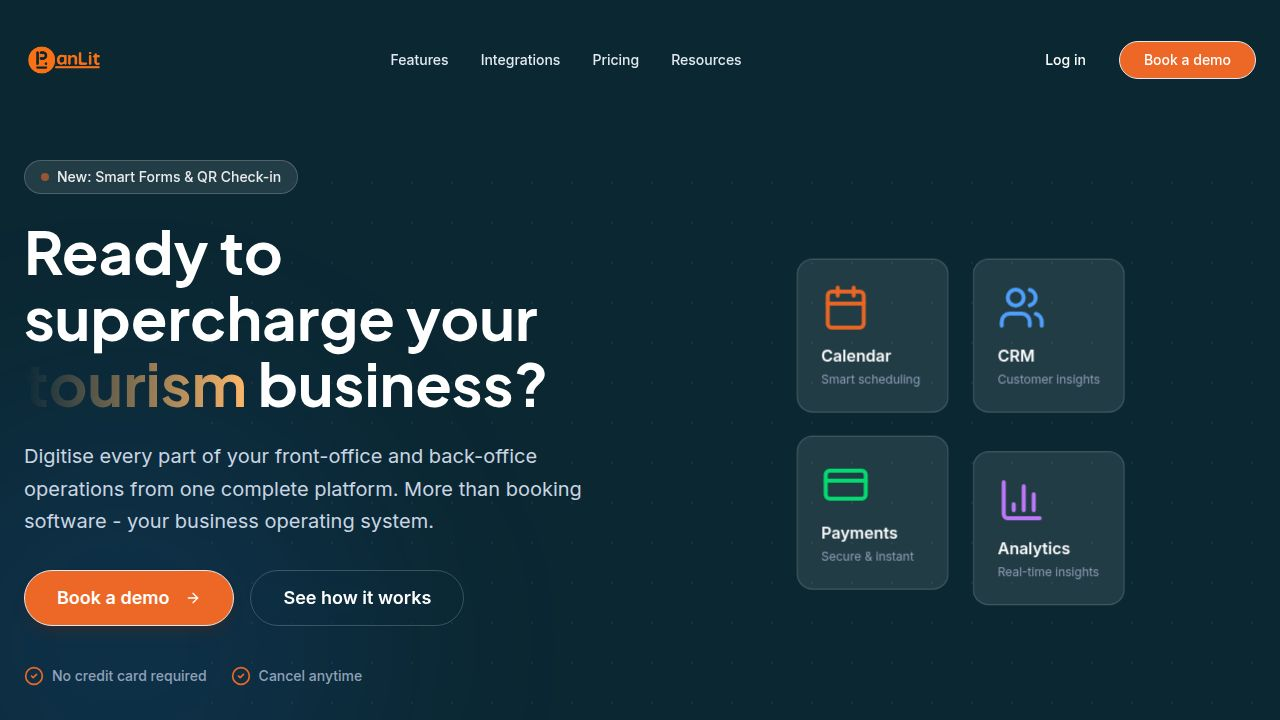
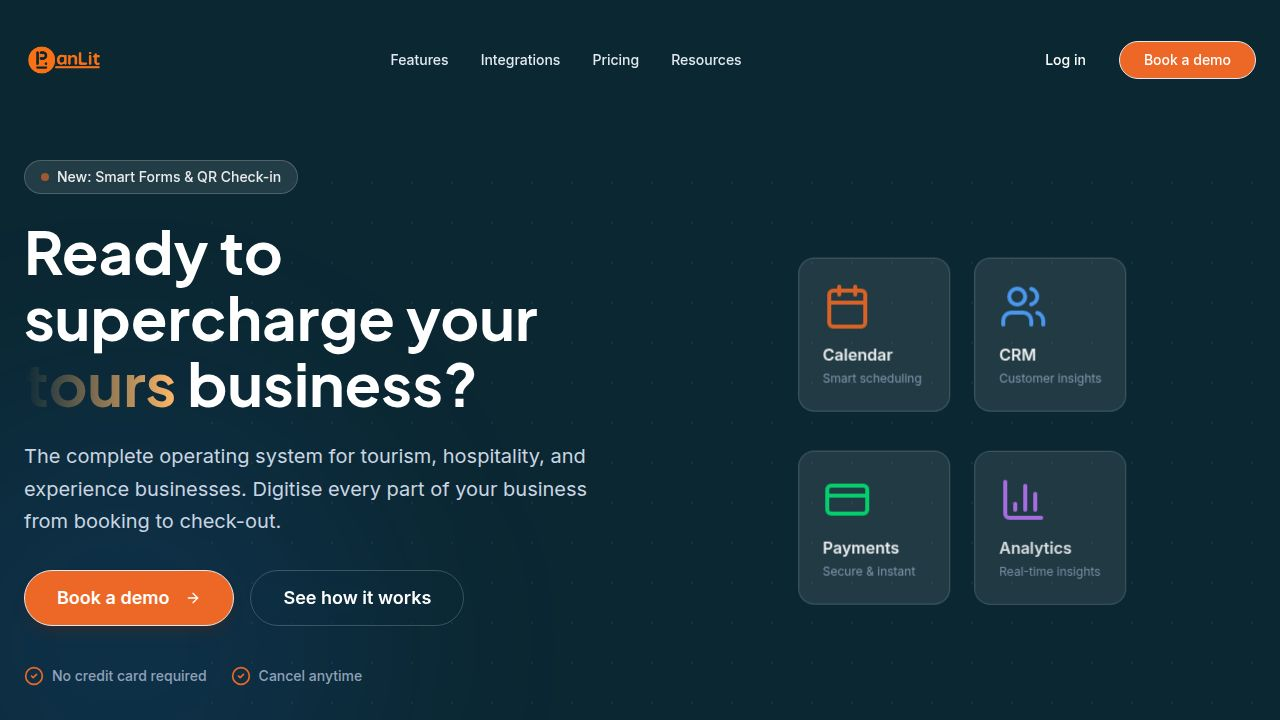
Update website copy to include hospitality businesses
Update hero section, testimonials, footer, and call to action to reflect expanded scope to include tourism, hospitality, and experience businesses.

Replit-Commit-Author: Agent
Replit-Commit-Session-Id: fe9462af-0e89-4b0e-af36-85f9b2ed8215
Replit-Commit-Checkpoint-Type: full_checkpoint
Replit-Commit-Event-Id: 76324d3a-0ea4-4a0a-9c2d-c6eb085e0f8f
Replit-Commit-Screenshot-Url: https://storage.googleapis.com/screenshot-production-us-central1/a373c8f0-a678-4f25-9078-90ab245125a7/fe9462af-0e89-4b0e-af36-85f9b2ed8215/FY5Apcr
Replit-Helium-Checkpoint-Created: true

diff --git a/client/src/components/landing/testimonials.tsx b/client/src/components/landing/testimonials.tsx
@@ -41,9 +41,9 @@ const testimonials: Testimonial[] = [
     icon: Zap,
     metric: "10min",
     title: "to start winning",
-    quote: "I expected days of setup. Took 10 minutes. First booking logged that afternoon.",
-    author: "— Museum operations lead",
-    role: "Museum Operations Lead",
+    quote: "I expected days of setup. Took 10 minutes. Clients now book their own cuts 24/7.",
+    author: "— Barbershop Owner",
+    role: "Barbershop Owner",
   }
 ];
 
@@ -64,7 +64,7 @@ export function Testimonials() {
           >
             <h2 className="text-4xl md:text-5xl font-bold font-heading text-white leading-tight mb-6">
               Real results, real <br/>
-              <span className="text-transparent bg-clip-text bg-gradient-to-r from-panlit-orange to-orange-300">operators</span>
+              <span className="text-transparent bg-clip-text bg-gradient-to-r from-panlit-orange to-orange-300">businesses</span>
             </h2>
           </motion.div>
 
@@ -75,7 +75,7 @@ export function Testimonials() {
             transition={{ duration: 0.6, delay: 0.1 }}
             className="text-slate-300 text-lg leading-relaxed"
           >
-            What tourism and experience businesses achieve in their first week. Built by someone who managed 1,500+ operators and saw these problems firsthand.
+            What tourism, hospitality, and experience businesses achieve in their first week. Built by someone who managed 1,500+ operators and saw these problems firsthand.
           </motion.p>
         </div>
 

diff --git a/client/src/pages/home.tsx b/client/src/pages/home.tsx
@@ -26,7 +26,7 @@ export default function Home() {
                Ready to scale your operations?
              </h2>
              <p className="text-slate-300 text-lg md:text-xl max-w-2xl mx-auto mb-10">
-               Join hundreds of tourism and experience businesses who trust Panlit to run their business.
+               Join hundreds of tourism, hospitality, and experience businesses who trust Panlit to run their business.
              </p>
              <div className="flex flex-col sm:flex-row gap-4 justify-center">
                <Button size="lg" className="bg-panlit-orange hover:bg-orange-600 text-white font-bold h-14 px-10 rounded-full text-lg">

diff --git a/client/src/components/landing/hero.tsx b/client/src/components/landing/hero.tsx
@@ -56,7 +56,7 @@ export function Hero() {
             </h1>
             
             <p className="text-lg md:text-xl text-slate-300 mb-8 leading-relaxed">
-              The complete operating system for tours, activities, experiences, and stays. Digitise every part of your business from booking to check-out.
+              The complete operating system for tourism, hospitality, and experience businesses. Digitise every part of your business from booking to check-out.
             </p>
 
             <div className="flex flex-col sm:flex-row gap-4 mb-10">

diff --git a/client/src/components/landing/footer.tsx b/client/src/components/landing/footer.tsx
@@ -16,7 +16,7 @@ export function Footer() {
                 />
             </Link>
             <p className="text-sm text-slate-400 mb-6">
-              Built for tourism operators and experience creators. Supercharge your business today.
+              Built for tourism, hospitality, and experience businesses. Supercharge your business today.
             </p>
             <div className="flex gap-4">
               <a href="#" className="text-slate-400 hover:text-white transition-colors"><Twitter size={20} /></a>
